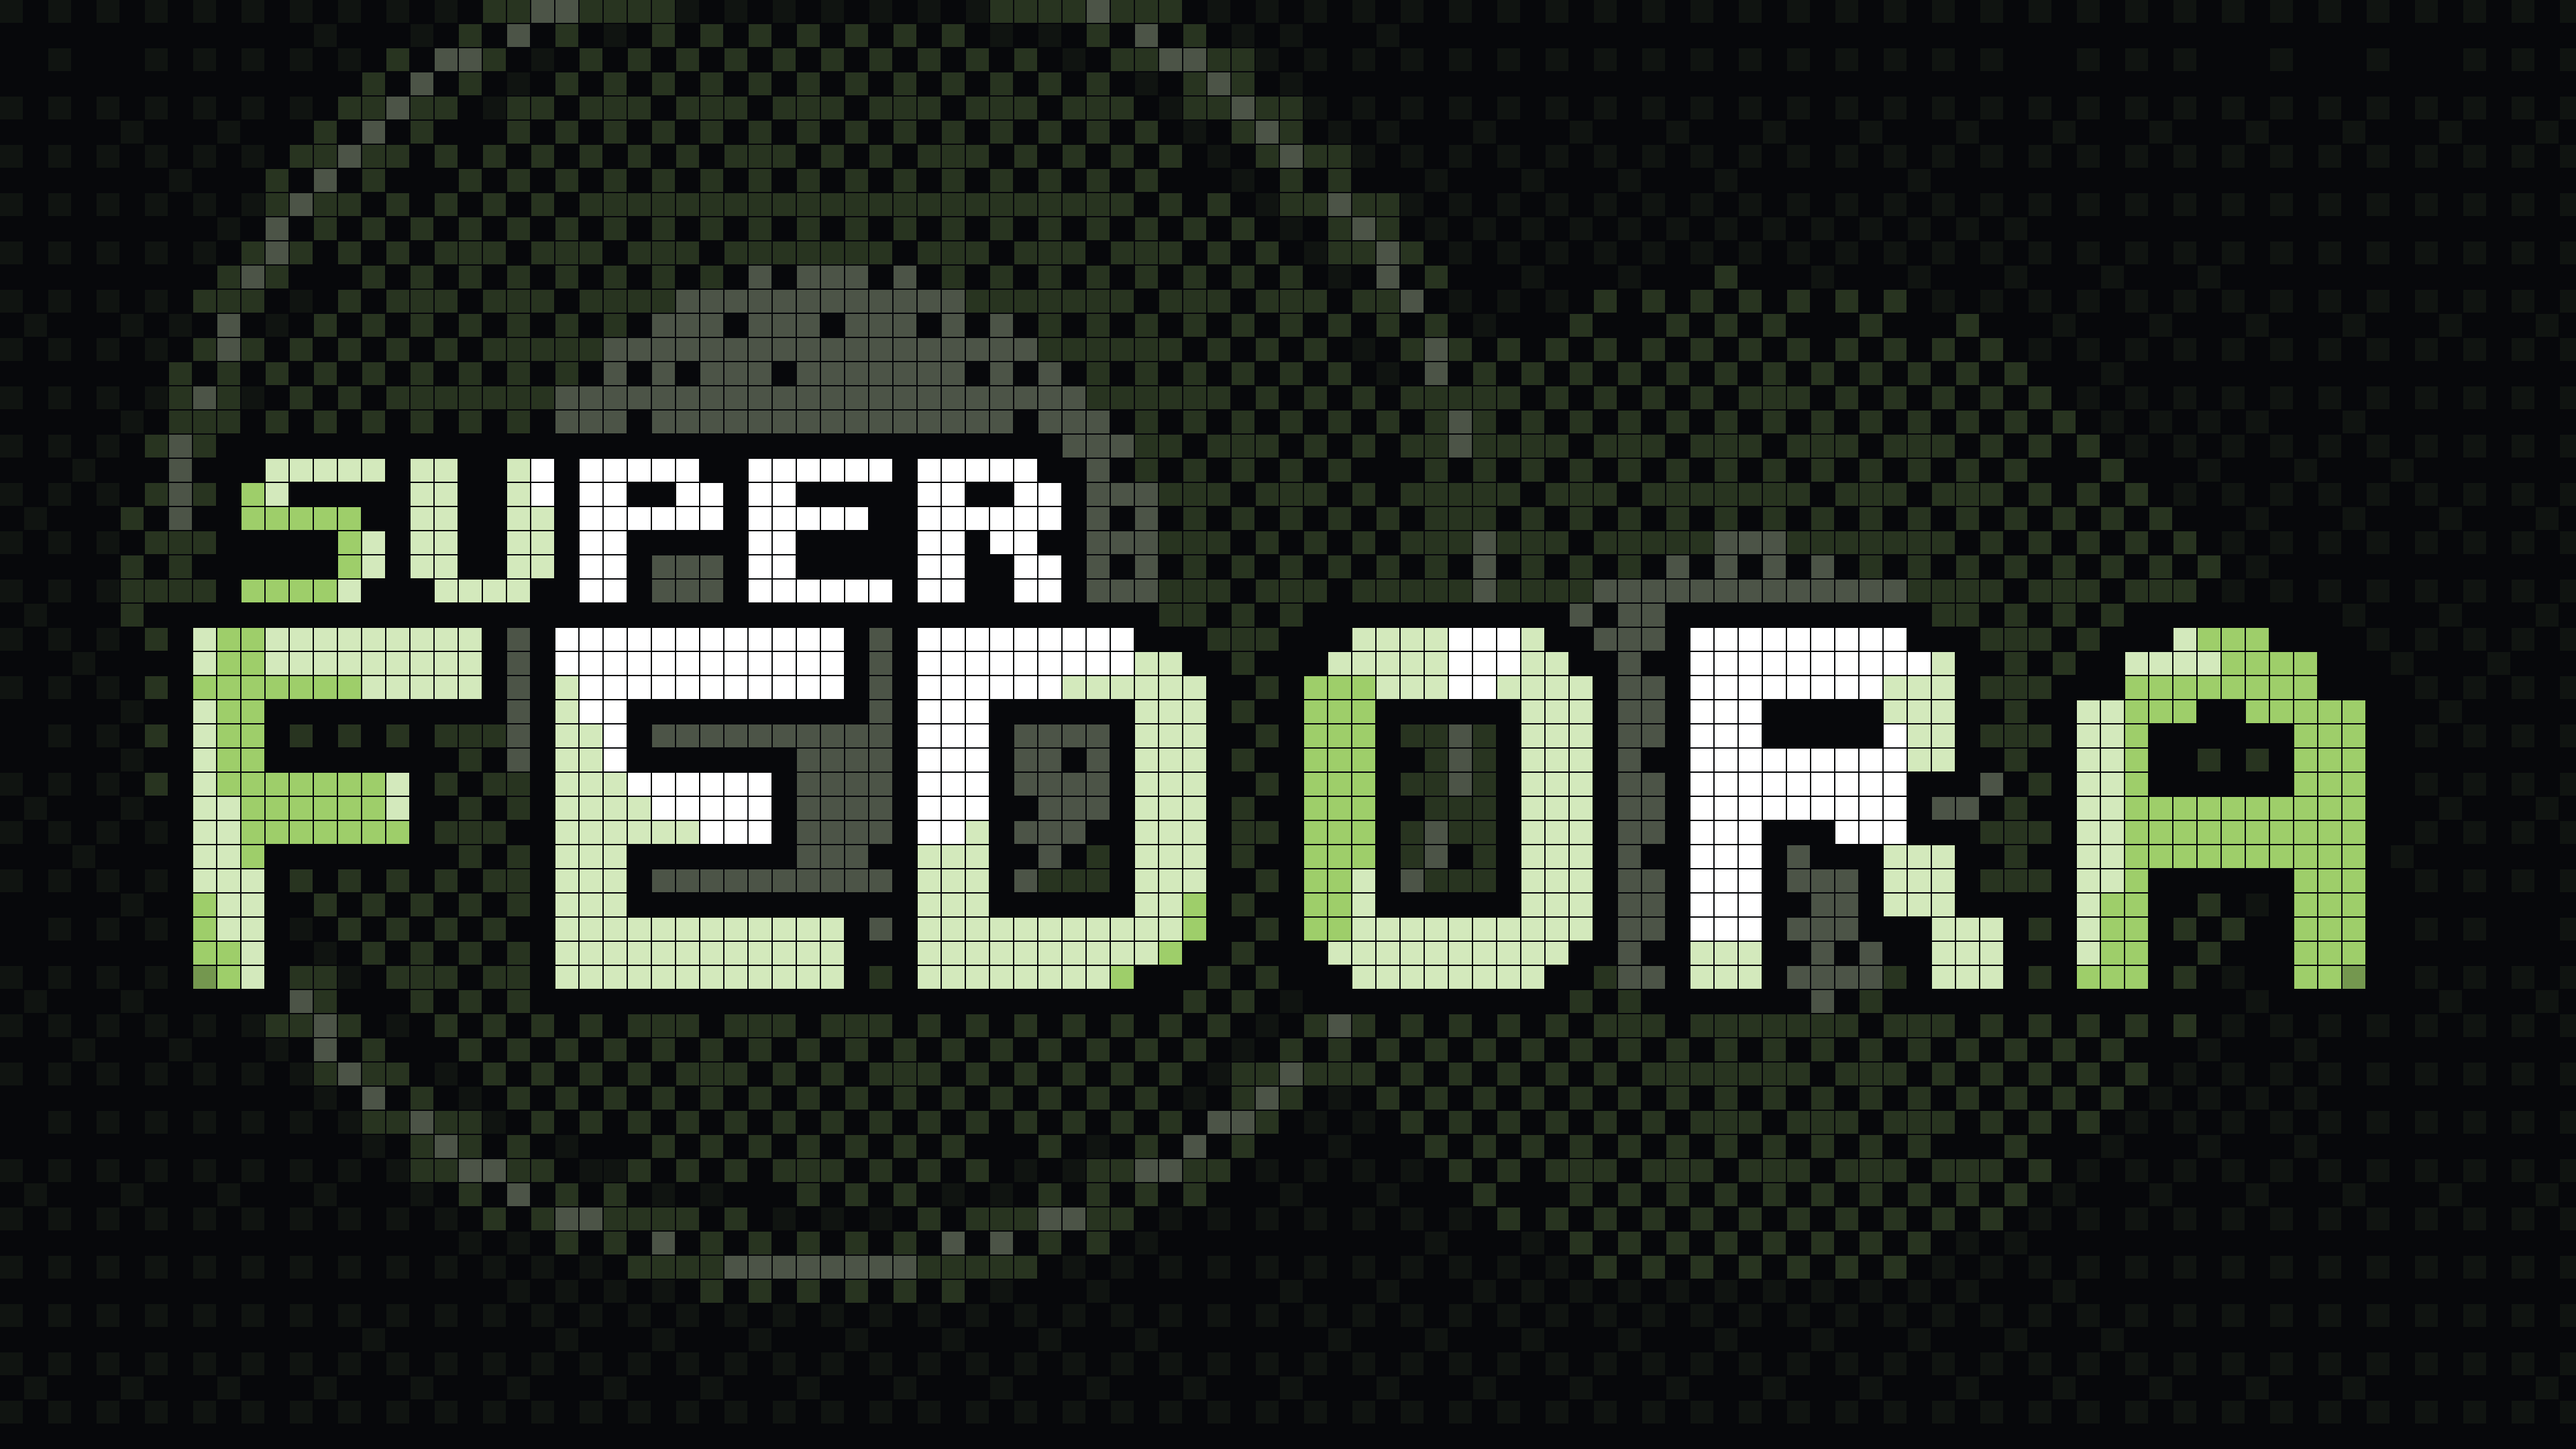
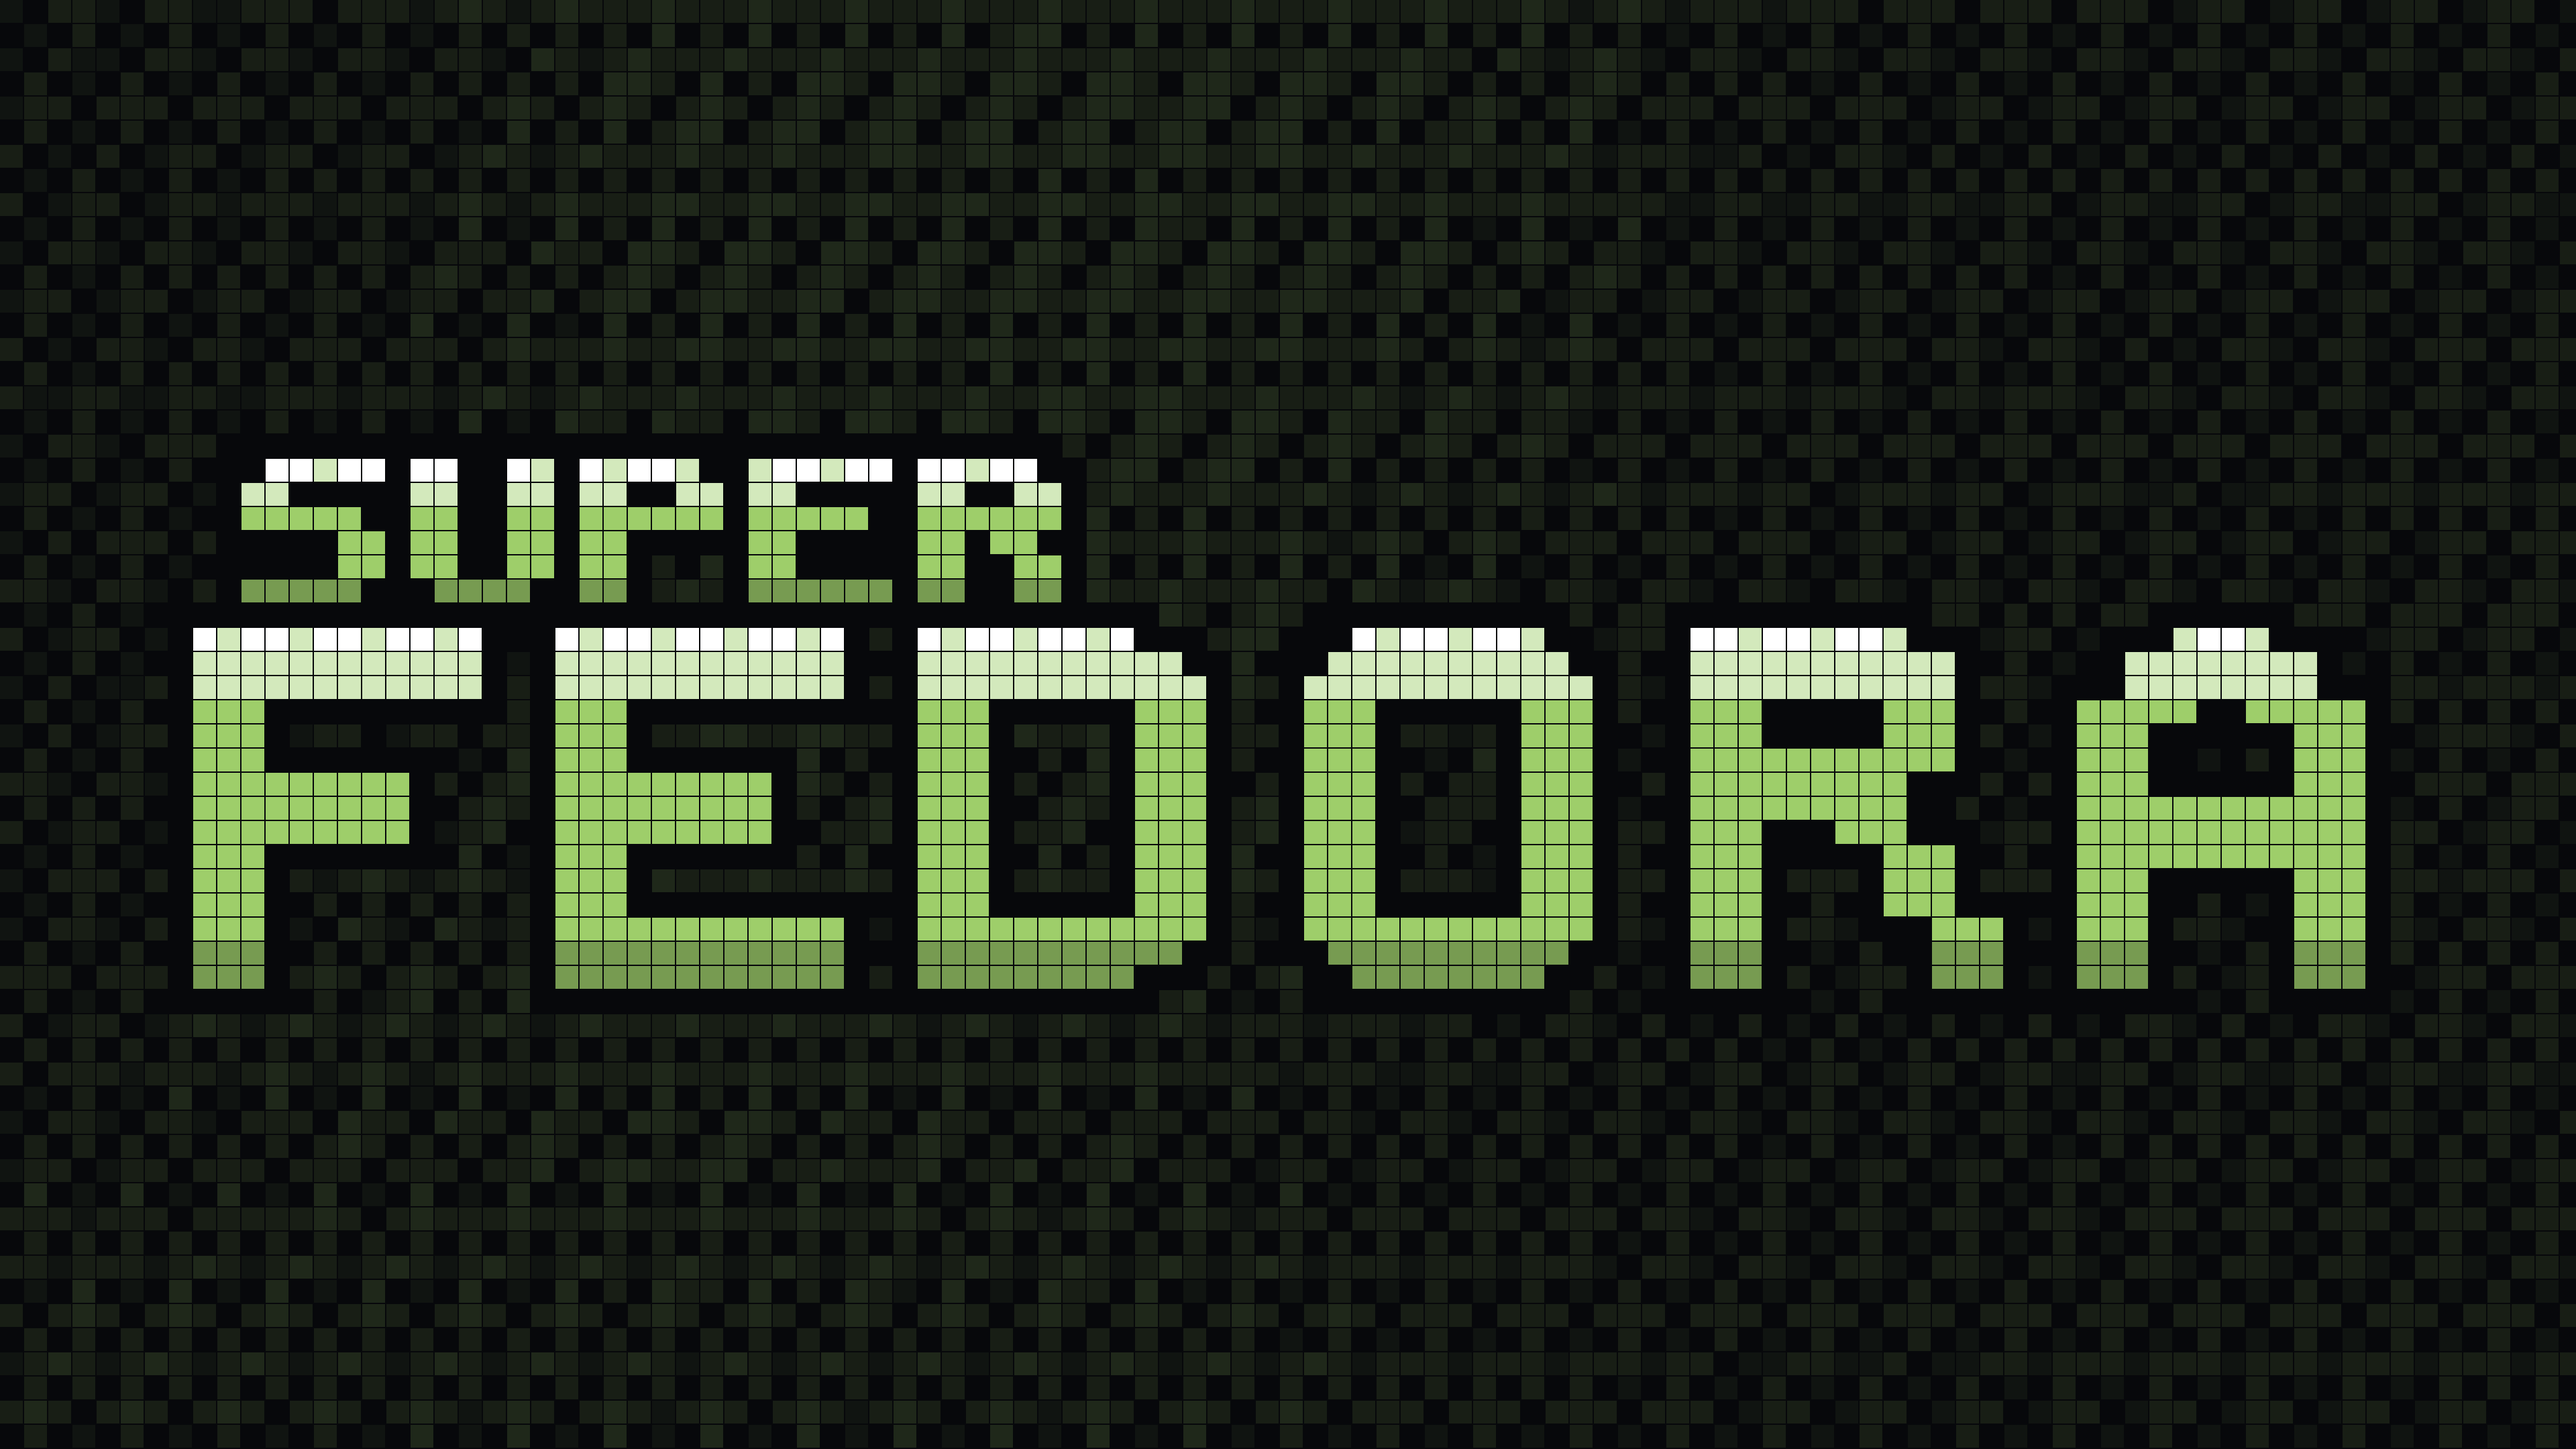
feat(wallpapers): remove circular spotlights and rings from 4K 16-bit background

diff --git a/scripts/generate_wallpapers.py b/scripts/generate_wallpapers.py
@@ -140,28 +140,21 @@ def render_wallpaper(dark_rgb, light_rgb, is_light=False, sec=4.2):
         color_word_spec = (255, 255, 255)
         color_word_hot = (hr, hg, hb)
         color_word_mid = (ar, ag, ab)
-        color_word_base = blend(bg, (ar, ag, ab), 0.72)
-        color_halo_high = blend(bg, (hr, hg, hb), 0.34)
-        color_halo_mid = blend(bg, (ar, ag, ab), 0.22)
-        color_field_high = blend(bg, (ar, ag, ab), 0.14)
+        color_word_base = blend(bg, (ar, ag, ab), 0.74)
+        color_field_high = blend(bg, (ar, ag, ab), 0.16)
+        color_field_mid = blend(bg, (ar, ag, ab), 0.11)
         color_field_low = blend(bg, (ar, ag, ab), 0.06)
     else:
-        # Cartridge Light Mode: crisp dark obsidian pixel trench with vibrant 16-bit jewel fill
         color_word_spec = (hr, hg, hb)
         color_word_hot = (ar, ag, ab)
         color_word_mid = blend((lr, lg, lb), (ar, ag, ab), 0.55)
         color_word_base = (lr, lg, lb)
-        color_halo_high = blend(bg, (lr, lg, lb), 0.32)
-        color_halo_mid = blend(bg, (lr, lg, lb), 0.20)
-        color_field_high = blend(bg, (lr, lg, lb), 0.13)
-        color_field_low = blend(bg, (lr, lg, lb), 0.06)
+        color_field_high = blend(bg, (lr, lg, lb), 0.15)
+        color_field_mid = blend(bg, (lr, lg, lb), 0.10)
+        color_field_low = blend(bg, (lr, lg, lb), 0.05)
 
     img = Image.new("RGB", (WIDTH, HEIGHT), bg)
     draw = ImageDraw.Draw(img)
-
-    s1_x, s1_y, s1_r = WIDTH * 0.32, HEIGHT * 0.42, 1450.0
-    s2_x, s2_y, s2_r = WIDTH * 0.68, HEIGHT * 0.54, 1350.0
-    rip_x, rip_y, rip_r, ring_w = WIDTH * 0.32, HEIGHT * 0.42, 980.0, 90.0
 
     for r in range(GRID_ROWS):
         py = r * CELL_PX
@@ -173,31 +166,31 @@ def render_wallpaper(dark_rgb, light_rgb, is_light=False, sec=4.2):
             wm_col = c - ORIGIN_COL
             in_word_box = (0 <= wm_row < WM_H) and (0 <= wm_col < WM_W)
             is_word = in_word_box and WM_ROWS[wm_row][wm_col] == "1"
-            is_outline = not is_word and (-1 <= wm_row <= WM_H) and (-1 <= wm_col <= WM_W) and has_word_neighbor(wm_row, wm_col)
-
-            cx = px + CELL_PX * 0.5
-            cy = py + CELL_PX * 0.5
-
-            d1 = math.hypot(cx - s1_x, cy - s1_y)
-            sm1 = ((1.0 - d1 / s1_r) ** 2) if d1 < s1_r else 0.0
-            d2 = math.hypot(cx - s2_x, cy - s2_y)
-            sm2 = (((1.0 - d2 / s2_r) ** 2) * 0.78) if d2 < s2_r else 0.0
-            sm = max(sm1, sm2)
-
-            dr = math.hypot(cx - rip_x, cy - rip_y)
-            rip_glow = max(0.0, (1.0 - abs(dr - rip_r) / ring_w) * 0.45) if abs(dr - rip_r) <= ring_w else 0.0
+            is_outline = (
+                not is_word
+                and (-1 <= wm_row <= WM_H)
+                and (-1 <= wm_col <= WM_W)
+                and has_word_neighbor(wm_row, wm_col)
+            )
 
             box = [px, py, px + CELL_PX - GAP_PX - 1, py + CELL_PX - GAP_PX - 1]
+            nx = c * 0.065 + sec * 0.16
+            ny = r * 0.065 - sec * 0.11
+            n_val = (
+                0.6 * sample_noise(nx, ny)
+                + 0.4 * sample_noise(nx * 0.5 - sec * 0.08, ny * 0.5 + sec * 0.07)
+            )
+
             if is_word:
-                lit = 0.30 + sm * 2.10 + rip_glow * 1.35
-                bevel = 0.18 if (wm_row in (1, 2, 8, 9)) else 0.0
-                score = lit + bevel
-                fill = (
-                    color_word_spec if score > 1.42
-                    else color_word_hot if score > 0.85
-                    else color_word_mid if score > 0.45
-                    else color_word_base
-                )
+                # 16-bit SNES 4-tier metallic bevel across SUPER (rows 1..6) and FEDORA (rows 8..22)
+                if wm_row in (1, 8):
+                    fill = color_word_spec if (wm_col + wm_row) % 3 != 0 else color_word_hot
+                elif wm_row in (2, 9, 10):
+                    fill = color_word_hot
+                elif wm_row in (6, 21, 22):
+                    fill = color_word_base
+                else:
+                    fill = color_word_hot if n_val > 0.68 else color_word_mid
                 draw.rectangle(box, fill=fill)
                 continue
 
@@ -206,17 +199,14 @@ def render_wallpaper(dark_rgb, light_rgb, is_light=False, sec=4.2):
                     draw.rectangle(box, fill=LIGHT_OUTLINE)
                 continue
 
-            nx = c * 0.07 + sec * 0.16
-            ny = r * 0.07 - sec * 0.11
-            n_val = 0.6 * sample_noise(nx, ny) + 0.4 * sample_noise(nx * 0.5 - sec * 0.08, ny * 0.5 + sec * 0.07)
-            energy = n_val * 0.75 + (0.5 + 0.5 * math.sin(sec * 1.8 + ((r * 37 + c * 11) % 6.283))) * 0.25
-            field_val = energy * 0.38 + sm * 0.82 + rip_glow * 0.75
+            # Pure organic Bayer-dithered pixel field (no circles, balls, or rings)
+            wave = 0.5 + 0.5 * math.sin(sec * 1.8 + ((r * 37 + c * 11) % 6.283))
+            field_val = n_val * 0.78 + wave * 0.22
             dither = BAYER[(r & 7) * 8 + (c & 7)] / 64.0
-            if field_val > dither * 0.76:
+            if field_val > dither * 0.82:
                 fill = (
-                    color_halo_high if (sm > 0.42 or rip_glow > 0.38)
-                    else color_halo_mid if (sm > 0.15 or rip_glow > 0.15)
-                    else color_field_high if field_val > 0.52
+                    color_field_high if field_val > 0.66
+                    else color_field_mid if field_val > 0.48
                     else color_field_low
                 )
                 draw.rectangle(box, fill=fill)
